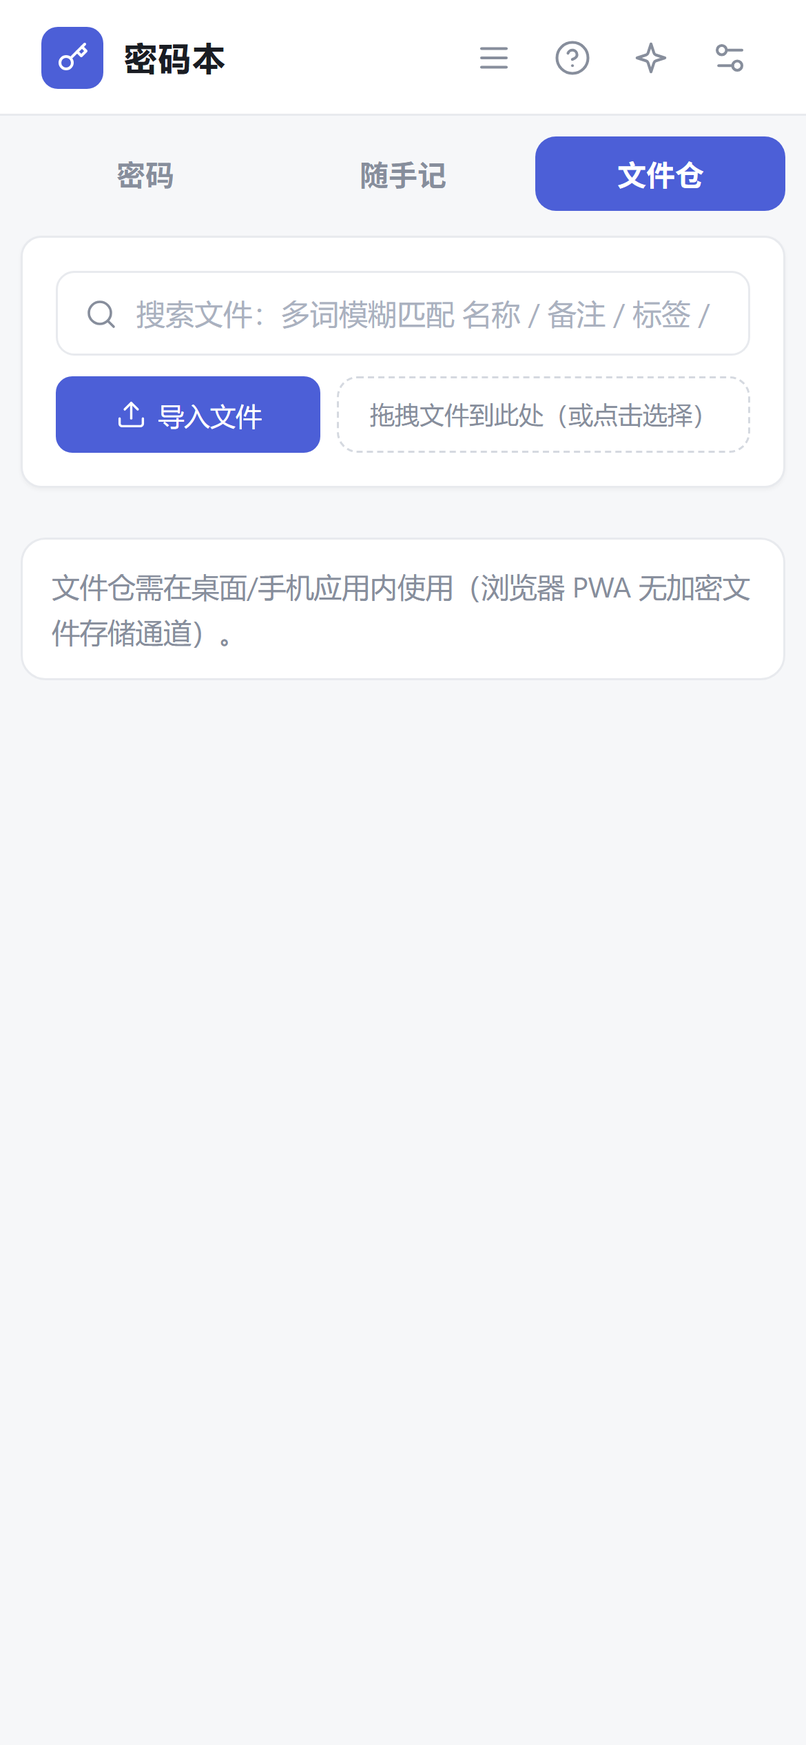
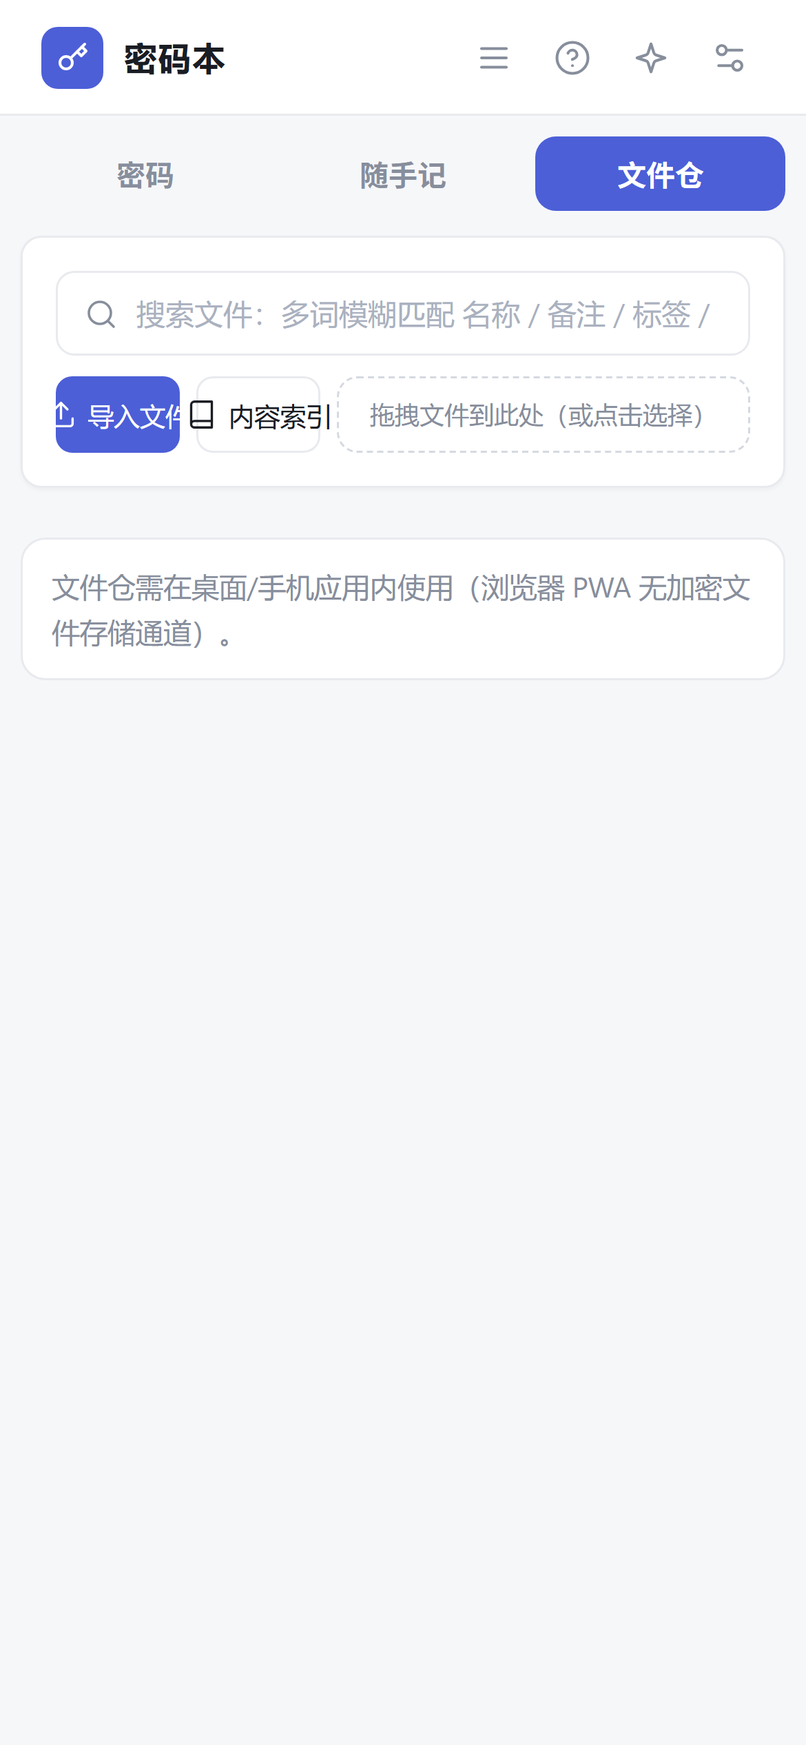
feat(filehub-search): v4.5.0 文件仓内容检索——搜文件不止搜名字，也搜正文。技术可行性结论（全离线本地抽取，绝不上传）：txt/md/csv/json 直读；docx（word/document.xml+footnotes+endnotes）与 pptx（ppt/slides/slideN.xml 数值序）用已打包 JSZip 解 OOXML XML，xmlToText 纯函数（段落边界换行/去标签/实体还原/压平空白）；xlsx 用已打包 SheetJS 逐表转 CSV；PDF 用已打包 pdf.js getTextContent（前 500 页早停）；图片与旧 

Changed region(s): [[0.1231, 0.2184, 0.4, 0.2808], [0.0615, 0.2184, 0.0923, 0.2496]]

diff --git a/public/app.js b/public/app.js
@@ -172,7 +172,9 @@ const SCHEMA_SQL = `
     source TEXT NOT NULL DEFAULT 'other',
     tags TEXT NOT NULL DEFAULT '',
     note TEXT NOT NULL DEFAULT '',
-    created_at TEXT NOT NULL
+    created_at TEXT NOT NULL,
+    ftext TEXT NOT NULL DEFAULT '',
+    ftext_ok INTEGER NOT NULL DEFAULT 0
   );
   CREATE INDEX IF NOT EXISTS idx_files_created ON files(created_at);
   CREATE INDEX IF NOT EXISTS idx_files_sha ON files(sha256);
@@ -427,6 +429,12 @@ const LocalStore = {
     if (!cols.includes('totp_secret')) { this.db.run("ALTER TABLE entries ADD COLUMN totp_secret TEXT NOT NULL DEFAULT ''"); migrated = true; }
     if (!cols.includes('history')) { this.db.run("ALTER TABLE entries ADD COLUMN history TEXT NOT NULL DEFAULT ''"); migrated = true; }
     if (!cols.includes('fav')) { this.db.run('ALTER TABLE entries ADD COLUMN fav INTEGER NOT NULL DEFAULT 0'); migrated = true; }
+    // v4.5.0：文件仓内容检索列（老库补列，幂等）
+    const fcols = this.query('PRAGMA table_info(files)').map((c) => c.name);
+    if (fcols.length) {
+      if (!fcols.includes('ftext')) { this.db.run("ALTER TABLE files ADD COLUMN ftext TEXT NOT NULL DEFAULT ''"); migrated = true; }
+      if (!fcols.includes('ftext_ok')) { this.db.run('ALTER TABLE files ADD COLUMN ftext_ok INTEGER NOT NULL DEFAULT 0'); migrated = true; }
+    }
     if (migrated || backfilled) await this.persist();
   },
   /** 读取底层原始字节：Tauri 下从数据库文件读，否则从 IndexedDB 读 */
@@ -557,6 +565,11 @@ const LocalStore = {
   },
   async fileRemove(id) {
     this.db.run('DELETE FROM files WHERE id = ?', [id]);
+    await this.persist();
+  },
+  /** v4.5.0 内容检索：写入抽取正文（ok=1 表示已索引；正文空也算已索引，避免反复重试） */
+  async fileSetFtext(id, ftext, ok) {
+    this.db.run('UPDATE files SET ftext = ?, ftext_ok = ? WHERE id = ?', [ftext || '', ok ? 1 : 0, id]);
     await this.persist();
   },
   fileKvGet(k) {
@@ -4153,6 +4166,7 @@ async function vaultImport(meta) {
     await tauriInvoke('store_blob_write_b64', { sha256: sha, b64: bytesToBase64(enc) });
   }
   const id = await LocalStore.fileCreate(row);
+  queueFtext(id); // v4.5.0：入库后异步抽取正文建内容索引（不阻塞入库）
   return { row: { ...row, id }, dupBefore, storedNew: !exists };
 }
 
@@ -4254,18 +4268,22 @@ function fileSrcBadge(src) {
   return `<span class="src-badge src-${src}" title="来源：${label}">${label}</span>`;
 }
 
-function renderFileCard(f) {
+function renderFileCard(f, ci) {
   const tags = String(f.tags || '').split(/[,，、\s]+/).filter(Boolean);
   const k = PassFiles.previewKind(f.mime, f.name);
   const canInline = k !== 'system';
+  const contentBadge = ci && ci.contentHit ? '<span class="src-badge src-content" title="检索词命中文件正文">内容命中</span>' : '';
+  const snippetLine = ci && ci.snippet ? `<div class="file-snippet">${escapeHtml(ci.snippet)}</div>` : '';
+  const body = ci && ci.snippet ? snippetLine : `<div class="note-content">${escapeHtml(f.note || (canInline ? '点击卡片可应用内预览' : '点击卡片可用系统应用打开'))}</div>`;
   return `
   <article class="note-card file-card" data-id="${f.id}" title="点击查看详情" style="cursor:pointer">
     <div class="note-head">
       ${fileIcon(f.mime, f.name)}
       <span class="note-title">${escapeHtml(f.name)}</span>
       ${fileSrcBadge(f.source)}
+      ${contentBadge}
     </div>
-    <div class="note-content">${escapeHtml(f.note || (canInline ? '点击卡片可应用内预览' : '点击卡片可用系统应用打开'))}</div>
+    ${body}
     <div class="note-foot">
       <span>${noteTime(f.created_at)}</span>
       <span>${escapeHtml(PassFiles.formatSize(f.size))}</span>
@@ -4292,11 +4310,21 @@ async function refreshFilesList() {
   let files = [];
   try { files = LocalStore.filesList() || []; } catch (e) { toast('读取文件列表失败: ' + e.message, true); return; }
   let shown = files;
+  let contentInfo = {}; // v4.5.0：id → { contentHit, snippet }（内容命中徽标与片段）
   if (state.fileQ && window.PassFiles && window.PassSearch) {
     const res = PassFiles.searchFiles(files, state.fileQ, PassSearch);
-    if (res) shown = res.map((r) => r.file);
+    if (res) {
+      shown = res.map((r) => r.file);
+      const terms = state.fileQ.split(/\s+/).filter(Boolean);
+      for (const r of res) {
+        if (r.contentHit || (r.file.ftext && terms.length)) {
+          const sn = PassFiles.snippetOf(r.file.ftext || '', terms);
+          if (r.contentHit || sn) contentInfo[r.file.id] = { contentHit: !!r.contentHit, snippet: sn };
+        }
+      }
+    }
   }
-  listEl.innerHTML = shown.map(renderFileCard).join('');
+  listEl.innerHTML = shown.map((f) => renderFileCard(f, contentInfo[f.id])).join('');
   countEl.textContent = state.fileQ ? `${shown.length}/${files.length} 个` : `共 ${files.length} 个`;
   emptyEl.classList.toggle('hidden', shown.length > 0);
 }
@@ -4516,6 +4544,91 @@ async function systemOpenFile(file) {
   }
 }
 
+/* ---------- v4.5.0 内容检索：正文抽取（依赖已打包库：pdfjs / JSZip / XLSX） ---------- */
+
+/** 抽取正文：按预览类型分派。旧二进制（doc/ppt/xls）与图片无文本层 → 空文本（仍记 ok=1 不重试） */
+async function extractFtext(file) {
+  const k = PassFiles.previewKind(file.mime, file.name);
+  const ext = (String(file.name || '').toLowerCase().match(/\.([a-z0-9]+)$/) || [])[1] || '';
+  let text = '';
+  const bytes = await vaultReadBytes(file.sha256);
+  if (k === 'text' || k === 'inline-md') {
+    text = new TextDecoder('utf-8', { fatal: false }).decode(bytes);
+  } else if (k === 'inline-pdf') {
+    const pdfjs = await ensurePdfJs();
+    const doc = await pdfjs.getDocument({ data: bytes }).promise;
+    const parts = [];
+    const maxPages = Math.min(doc.numPages, 500); // 超长 PDF 抽前 500 页，足够个人检索
+    for (let i = 1; i <= maxPages; i++) {
+      const pg = await doc.getPage(i);
+      const tc = await pg.getTextContent();
+      parts.push(tc.items.map((it) => it.str).join(' '));
+      if (parts.join('\n').length > PassFiles.FTEXT_CAP * 2) break; // 留出余量后早停
+    }
+    text = parts.join('\n');
+  } else if (k === 'inline-docx') {
+    await ensureDocx(); // 载入 JSZip 全局
+    const zip = await window.JSZip.loadAsync(bytes);
+    const parts = [];
+    const names = ['word/document.xml', 'word/footnotes.xml', 'word/endnotes.xml'];
+    for (const n of names) {
+      const f = zip.file(n);
+      if (f) parts.push(PassFiles.xmlToText(await f.async('string')));
+    }
+    text = parts.join('\n');
+  } else if (k === 'inline-xlsx') {
+    const XLSX = await ensureXlsx();
+    const wb = XLSX.read(bytes, { type: 'array' });
+    text = wb.SheetNames.map((n) => '# ' + n + '\n' + XLSX.utils.sheet_to_csv(wb.Sheets[n])).join('\n');
+  } else if (ext === 'pptx') {
+    // pptx 预览走系统打开，但正文抽取便宜（JSZip 解 slides XML），内容检索照样支持
+    await ensureDocx();
+    const zip = await window.JSZip.loadAsync(bytes);
+    const names = Object.keys(zip.files)
+      .filter((n) => /^ppt\/slides\/slide\d+\.xml$/.test(n))
+      .sort(PassFiles.slideKeyOrder);
+    const parts = [];
+    for (const n of names) parts.push(PassFiles.xmlToText(await zip.file(n).async('string')));
+    text = parts.join('\n');
+  }
+  /* 其余（图片 / doc / ppt / xls 旧二进制 / 未知类型）：无轻量文本层，记空 */
+  text = PassFiles.capText(text);
+  await LocalStore.fileSetFtext(file.id, text, 1);
+  return text;
+}
+
+/** 串行抽取队列（大 PDF 解析慢，排队不阻塞 UI；已索引跳过） */
+let _ftextQueue = [];
+let _ftextRunning = false;
+function queueFtext(fileId) {
+  if (!(currentMode === 'local' && IS_TAURI)) return;
+  _ftextQueue.push(fileId);
+  runFtextQueue();
+}
+async function runFtextQueue() {
+  if (_ftextRunning) return;
+  _ftextRunning = true;
+  try {
+    while (_ftextQueue.length) {
+      const id = _ftextQueue.shift();
+      const f = (LocalStore.filesList() || []).find((x) => x.id === id);
+      if (!f || f.ftext_ok) continue;
+      try { await extractFtext(f); }
+      catch (e) { console.warn('[passbook] 正文抽取失败', f.name, e); }
+    }
+    if (state.view === 'files') refreshFilesList(); // 索引完成后刷新（内容命中徽标可能变化）
+  } finally { _ftextRunning = false; }
+}
+
+/* ---------- 内容索引按钮 + 检索结果渲染 ---------- */
+$('#btn-files-index')?.addEventListener('click', async () => {
+  if (currentMode !== 'local' || !IS_TAURI) return toast('内容索引需在桌面/手机应用内本地模式使用', true);
+  const rows = (LocalStore.filesList() || []).filter((r) => !r.ftext_ok);
+  if (!rows.length) return toast('内容索引已是最新（旧 doc/ppt/xls 与图片无文本层，不参与内容检索）');
+  toast(`开始为 ${rows.length} 个文件抽取正文建索引，大文件稍候…`);
+  for (const r of rows) queueFtext(r.id);
+});
+
 /* ---------- 四通道导入 ---------- */
 async function filesImportClick() {
   if (currentMode !== 'local') return toast('文件仓仅本地存储模式支持', true);
@@ -4697,11 +4810,19 @@ async function injectShotDemo() {
         let i = 0;
         for (const [name, mime, size, source, tags] of demo) {
           i++;
-          await LocalStore.fileCreate(PassFiles.buildMetaRow({
+          const fid = await LocalStore.fileCreate(PassFiles.buildMetaRow({
             name, mime, size, source, tags, note: '',
             sha256: (i.toString(16) + '0'.repeat(64)).slice(0, 64),
             created_at: new Date(Date.now() - i * 86400000 * 3).toISOString(),
           }));
+          const demoText = [
+            '体检结论：各项指标基本正常，血脂略高，建议低脂饮食并三个月后复查。项目明细见附页。',
+            '里程碑：M1 需求冻结 3/10，M2 联调 3/18，M3 上线 3/22。风险：第三方支付接口延期。',
+            '报销范围：差旅住宿每晚上限 400 元，需附发票与行程单，事前审批走 OA。',
+            '读书笔记：第一章讲局部性原理，缓存友好的数据结构能差出一个数量级……',
+            '扫描件：房屋租赁合同，租期 2025-03 至 2026-02，月租金 5600 元。',
+          ][i - 1] || '';
+          await LocalStore.fileSetFtext(fid, demoText, 1);
         }
       }
     }
@@ -4787,7 +4908,7 @@ function openGuideModal() {
            · <b>桌面拖拽</b>：把文件拖进文件仓页的虚线框即导入。</p>
         <p><b>同内容自动去重</b>：按内容 sha256 共用一份加密存储，删除时最后一份引用才会物理清除。</p>
         <p><b>文档预览（全离线本地渲染）</b>：PDF / docx / xlsx / Markdown / txt / 图片直接应用内预览；旧版 doc/ppt/xls 与 pptx 不做内置渲染，提供「系统打开」（临时解密到缓存目录调用系统应用）。桌面与手机同一套渲染。</p>
-        <p>文件页搜索框多词模糊匹配<b>名称 / 备注 / 标签 / 来源</b>（顶栏搜索依旧只管密码页）。点卡片看详情：预览 / 系统打开 / 重命名改标签 / 删除。</p>`)}
+        <p>文件页搜索框多词模糊匹配<b>名称 / 备注 / 标签 / 来源 / 正文内容</b>（顶栏搜索依旧只管密码页）。<b>内容检索</b>：PDF / Word / Excel / PPT / Markdown / 文本文件的正文在导入时自动抽取建索引（本地完成、不上传），命中正文的结果带「内容命中」徽标与上下文片段；点工具栏「内容索引」可为存量/失败的文件补建。旧 doc/ppt/xls 二进制与图片没有文本层，只检索名称等元数据。</p>`)}
       ${guideSec('manual.png', '④ 存一条密码（手动录入）', `
         <p>点工具栏 <b>「＋ 手动录入」</b>，填写<b>所属</b>（应用/网站）、<b>账户</b>、<b>密码</b>三项必填。</p>
         <p>还可选填 <b>TOTP 密钥</b>（base32 或直接粘贴 otpauth:// 链接自动提取）、<b>分类</b>、<b>网址</b>、<b>备注</b>；编辑已有记录时能上传<b>附件</b>（每张 ≤2MB，随数据库加密存储）。</p>

diff --git a/public/filehub.js b/public/filehub.js
@@ -154,13 +154,90 @@
    * 多词检索文件：借助 PassSearch.searchEntries。返回 [{ file, score }]（分数降序）；
    * 空查询返回 null（调用方全量展示）。
    */
-  function searchFiles(files, query, PassSearch) {
+  function searchFiles(files, query, PassSearch, opts) {
     if (!PassSearch || typeof PassSearch.searchEntries !== 'function') return null;
     var pq = PassSearch.parseQuery(query);
     if (!pq.terms.length && !Object.keys(pq.filters).length) return null;
-    var entries = (files || []).map(fileToEntry);
+    var arr = files || [];
+    var entries = arr.map(fileToEntry);
     var res = PassSearch.searchEntries(entries, query) || [];
-    return res.map(function (r) { return { file: r.entry.__file, score: r.score }; });
+    var out = [];
+    var seen = {};
+    for (var i = 0; i < res.length; i++) {
+      seen[res[i].entry.__file.id] = true;
+      out.push({ file: res[i].entry.__file, score: res[i].score, contentHit: false });
+    }
+    /* v4.5.0 内容检索：抽取文本 ftext 命中全部检索词（AND）也返回，标记 contentHit */
+    if (!opts || opts.content !== false) {
+      var terms = pq.terms.map(function (t) { return String(t.term != null ? t.term : t).toLowerCase(); })
+        .filter(Boolean);
+      for (var j = 0; j < arr.length && terms.length; j++) {
+        var f = arr[j];
+        if (seen[f.id]) continue;
+        var ft = String(f.ftext || '').toLowerCase();
+        if (!ft) continue;
+        var all = true;
+        for (var k = 0; k < terms.length; k++) if (ft.indexOf(terms[k]) < 0) { all = false; break; }
+        if (all) out.push({ file: f, score: 0.1, contentHit: true });
+      }
+    }
+    return out;
+  }
+
+  /* ---------- v4.5.0 内容检索：抽取文本处理纯函数 ---------- */
+
+  /** 每文件抽取文本上限（防大 PDF 撑库；截断即够个人检索用） */
+  var FTEXT_CAP = 256 * 1024;
+
+  function capText(t, max) {
+    var s = String(t == null ? '' : t);
+    var cap = max || FTEXT_CAP;
+    return s.length > cap ? s.slice(0, cap) : s;
+  }
+
+  /**
+   * OOXML 内部 XML → 纯文本：段落/单元格边界转换行、去标签、还原实体、压平空白。
+   * 适配 docx（w:）、pptx（a:）、xlsx 共享字符串（<t>）等任意 OOXML XML 片段。
+   */
+  function xmlToText(xml) {
+    var s = String(xml == null ? '' : xml);
+    s = s.replace(/<w:p[ >]|<a:p[ >]/g, '\n');           // 段落起始换行（w:word a:ppt）
+    s = s.replace(/<w:tab\/>|<w:tab[ >]/g, '\t');
+    s = s.replace(/<[^>]*>/g, '');                        // 去标签
+    s = s.replace(/&lt;/g, '<').replace(/&gt;/g, '>').replace(/&quot;/g, '"')
+       .replace(/&apos;/g, "'").replace(/&#(\d+);/g, function (_, d) { return String.fromCharCode(+d); })
+       .replace(/&amp;/g, '&');                           // 实体还原（&amp; 最后处理）
+    s = s.replace(/[ \t]+/g, ' ').replace(/ ?\n ?/g, '\n').replace(/\n{3,}/g, '\n\n');
+    return s.trim();
+  }
+
+  /** pptx 幻灯片路径排序（slide2 < slide10，避免字典序 10<2） */
+  function slideKeyOrder(a, b) {
+    var na = (String(a).match(/slide(\d+)\.xml$/i) || [])[1];
+    var nb = (String(b).match(/slide(\d+)\.xml$/i) || [])[1];
+    na = na ? +na : 1e9; nb = nb ? +nb : 1e9;
+    return na - nb || String(a).localeCompare(String(b));
+  }
+
+  /**
+   * 命中片段：在 text 中找 terms 首个出现位置，截前后 radius 字符的上下文（带 …）。
+   * 未命中返回 null。
+   */
+  function snippetOf(text, terms, radius) {
+    var s = String(text == null ? '' : text);
+    var r = radius || 36;
+    var lower = s.toLowerCase();
+    var pos = -1, hitTerm = '';
+    for (var i = 0; i < (terms || []).length; i++) {
+      var t = String(terms[i]).toLowerCase();
+      if (!t) continue;
+      var p = lower.indexOf(t);
+      if (p >= 0 && (pos < 0 || p < pos)) { pos = p; hitTerm = t; }
+    }
+    if (pos < 0) return null;
+    var start = Math.max(0, pos - r);
+    var end = Math.min(s.length, pos + hitTerm.length + r);
+    return (start > 0 ? '…' : '') + s.slice(start, end).replace(/\s+/g, ' ') + (end < s.length ? '…' : '');
   }
 
   /* ---------- 预览类型判定（纯函数：mime/扩展名 → 渲染通道） ---------- */
@@ -478,6 +555,11 @@
     dupHint: dupHint,
     fileToEntry: fileToEntry,
     searchFiles: searchFiles,
+    FTEXT_CAP: FTEXT_CAP,
+    capText: capText,
+    xmlToText: xmlToText,
+    slideKeyOrder: slideKeyOrder,
+    snippetOf: snippetOf,
     mimeFromName: mimeFromName,
     previewKind: previewKind,
     mdToHtml: mdToHtml,

diff --git a/public/index.html b/public/index.html
@@ -91,7 +91,7 @@
         <div class="search-row">
           <div class="search-wrap">
             <svg viewBox="0 0 24 24" fill="none" stroke="currentColor" stroke-width="1.8" stroke-linecap="round" stroke-linejoin="round"><circle cx="11" cy="11" r="8"/><path d="m21 21-4.3-4.3"/></svg>
-            <input id="file-search" type="search" placeholder="搜索文件：多词模糊匹配 名称 / 备注 / 标签 / 来源" autocomplete="off" />
+            <input id="file-search" type="search" placeholder="搜索文件：多词模糊匹配 名称 / 备注 / 标签 / 来源 / 正文内容" autocomplete="off" />
           </div>
         </div>
         <div class="tb-lines">
@@ -99,6 +99,10 @@
             <button id="btn-files-import" class="btn primary" title="导入文件">
               <svg viewBox="0 0 24 24" fill="none" stroke="currentColor" stroke-width="1.8" stroke-linecap="round" stroke-linejoin="round"><path d="M21 15v4a2 2 0 0 1-2 2H5a2 2 0 0 1-2-2v-4"/><path d="m17 8-5-5-5 5"/><path d="M12 3v12"/></svg>
               <span class="tb-text">导入文件</span>
+            </button>
+            <button id="btn-files-index" class="btn" title="为未索引文件抽取正文，建立内容检索索引">
+              <svg viewBox="0 0 24 24" fill="none" stroke="currentColor" stroke-width="1.8" stroke-linecap="round" stroke-linejoin="round"><path d="M4 19.5v-15A2.5 2.5 0 0 1 6.5 2H20v20H6.5a2.5 2.5 0 0 1 0-5H20"/></svg>
+              <span class="tb-text">内容索引</span>
             </button>
             <label id="file-drop-zone" class="file-drop file-drop-zone" for="file-input-multi" title="拖拽文件到此处导入">拖拽文件到此处（或点击选择）<input type="file" id="file-input-multi" multiple hidden /></label>
           </div>

diff --git a/public/style.css b/public/style.css
@@ -1132,3 +1132,17 @@ html.dark .src-badge.src-share { background: #14452c; color: #86efac; }
 .src-badge.src-saf  { background: rgba(34,160,107,.14); color: #22a06b; }
 .src-badge.src-wechat { background: rgba(7,193,96,.14); color: #07c130; }
 .src-badge.src-qq { background: rgba(0,153,255,.14); color: #0099ff; }
+
+/* v4.5.0 内容检索：命中徽标与片段 */
+.src-badge.src-content { background: rgba(245,158,11,.15); color: #d97706; }
+.file-snippet {
+  font-size: 12.5px;
+  color: var(--muted, #778);
+  background: rgba(245,158,11,.07);
+  border-left: 3px solid rgba(245,158,11,.5);
+  border-radius: 4px;
+  padding: 6px 8px;
+  margin-top: 6px;
+  word-break: break-all;
+  line-height: 1.55;
+}

diff --git a/public/sw.js b/public/sw.js
@@ -1,5 +1,5 @@
 /* 密码本 · Service Worker：离线可用（PWA） */
-const CACHE_NAME = 'passbook-v69';
+const CACHE_NAME = 'passbook-v70';
 const ASSETS = [
   './',
   './index.html',

diff --git a/docs/HANDOFF.md b/docs/HANDOFF.md
@@ -12,7 +12,7 @@
 ## 当前状态（交接时点）
 - HEAD = tag v4.1.2 = `0e4a9e7`；Release 停在 v4.1.0（383628895，正式 3 产物）；4.1.1/4.1.2 为修复小版本未发 Release
 - v4.1.0 浏览器一键导入（Edge 实测通过）；v4.1.1 base64 IPC + 多选三修；v4.1.2 手机端 TOTP 断行修复（实测通过）
-- v4.3.0 随手记 + 三标签页；v4.3.1 便签独立搜索/卡片详情/快捷方式剪贴板重试四修；**v4.4.0 文件仓已交付（待用户真机验收）**：files 表 + files-store 加密分桶（密钥从库密钥派生，未加密库用固定设备密钥，换密钥走 vaultReencryptAll 唯一重加密路径）；四通道收件（分享 ShareFileActivity / 其他应用打开 OpenFileActivity 双动作 / SAF 批量 SafImportActivity + __passbook_saf.pick 桥 / 桌面拖拽 + pick_files）；预览矩阵本地打包（public/lib：pdfjs / docx-preview + jszip / xlsx.full）；zip 导出（store-only 自写 buildZip）；test/filehub.test.mjs 15 项
+- v4.3.0 随手记 + 三标签页；v4.3.1 便签独立搜索/卡片详情/快捷方式剪贴板重试四修；**v4.4.x 文件仓 + v4.5.0 内容检索已交付（待用户真机验收）**；v4.5.0：files 表补 ftext/ftext_ok 列（迁移幂等），正文抽取管线（pdfjs getTextContent / JSZip 解 OOXML / SheetJS CSV，cap 256KB），导入后异步队列 + 工具栏内容索引按钮，searchFiles 内容命中合并（test/ftext.test.mjs 7 项）：files 表 + files-store 加密分桶（密钥从库密钥派生，未加密库用固定设备密钥，换密钥走 vaultReencryptAll 唯一重加密路径）；四通道收件（分享 ShareFileActivity / 其他应用打开 OpenFileActivity 双动作 / SAF 批量 SafImportActivity + __passbook_saf.pick 桥 / 桌面拖拽 + pick_files）；预览矩阵本地打包（public/lib：pdfjs / docx-preview + jszip / xlsx.full）；zip 导出（store-only 自写 buildZip）；test/filehub.test.mjs 15 项
 - 工作树干净（惯例脏文件除外：RustWebView.kt / tauri.settings.gradle / Cargo.lock）
 - 下一版：待用户对 v4.4.0 真机验收后定（候选：v4.4.x 文件仓补丁或 v5.0 收尾，见 ROADMAP）
 

diff --git a/docs/ROADMAP.md b/docs/ROADMAP.md
@@ -1,7 +1,7 @@
 # 密码本 Roadmap（v4.3+ 存储扩展时代）
 
 > 维护约定：每完成一个版本更新此文件并归档旧版到 docs/archive/。
-> 当前已发布：**v4.4.0**（v4.3.x 随手记 + v4.4.0 文件仓已交付；Release 停在 v4.1.0，后续版本待用户真机确认后择机发）。
+> 当前已发布：**v4.5.0**（v4.3.x 随手记 / v4.4.x 文件仓 / v4.5.0 文件内容检索已交付；Release 停在 v4.1.0，后续版本待用户真机确认后择机发）。
 > 立项调研：[RESEARCH-v5-storage.md](RESEARCH-v5-storage.md)（随手记/文件仓/三标签页全案）。
 
 ## 版本规范
@@ -34,8 +34,11 @@
 - 加密一致性：换密钥/关加密向导同步重加密文件本体
 - 测试：test/filehub.test.mjs（元数据纯函数、去重键、检索命中、桶路径）
 
+## v4.5.0（已交付）：文件仓内容检索
+**正文抽取全离线本地完成（不上传）**：txt/md/csv/json 直读；docx/footnotes/endnotes 与 pptx slides 用 JSZip 解 XML 抽正文（xmlToText 纯函数）；xlsx 用 SheetJS 转 CSV；PDF 用 pdf.js getTextContent（前 500 页、256KB 截断）；图片与旧 doc/ppt/xls 二进制无文本层不参与（OCR 评估结论：tesseract.js + 中文语料约 20MB、秒级/张，性价比低不做）。抽取文本存 files.ftext（迁移链幂等补列），导入后异步串行队列建索引（不阻塞入库），工具栏「内容索引」补建存量；searchFiles 元数据命中 + 正文 ALL 词命中合并，卡片「内容命中」徽标 + 上下文片段。test/ftext.test.mjs 7 项。
+
 ## v5.0.0（已规划）：统一入口收尾
-- 三 tab 视觉统一打磨；便签贴图/富文本支持；文件文本抽取 FTS 全文检索评估（PDF/DOCX 依赖较重，先出评估再决定）；桌面托盘快捷入口
+- 三 tab 视觉统一打磨；便签贴图/富文本支持；桌面托盘快捷入口（文件内容检索已于 v4.5.0 落地，FTS5 如需再评估）
 - Release 里程碑候选（发版前用户确认）
 
 ## 远期（方向已评估，未排期）
